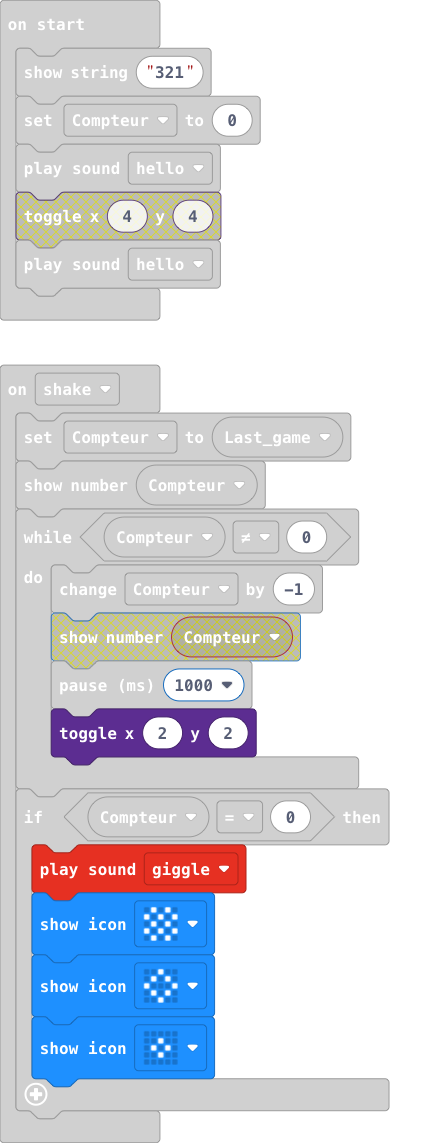
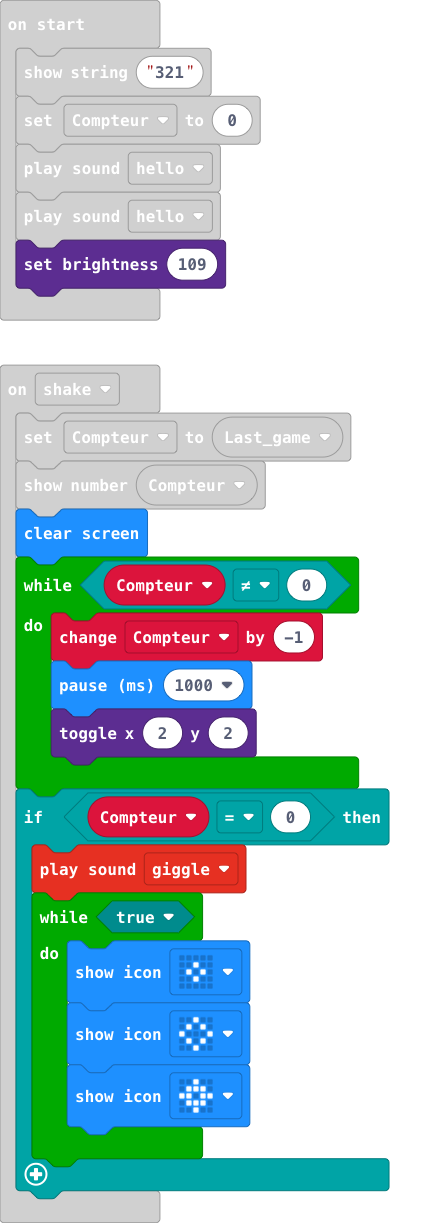
Update main.blocks, main.ts

diff --git a/main.ts b/main.ts
@@ -11,6 +11,7 @@ input.onButtonPressed(Button.B, function () {
 input.onGesture(Gesture.Shake, function () {
     Compteur = Last_game
     basic.showNumber(Compteur)
+    basic.clearScreen()
     while (Compteur != 0) {
         Compteur += -1
         basic.pause(1000)
@@ -18,9 +19,11 @@ input.onGesture(Gesture.Shake, function () {
     }
     if (Compteur == 0) {
         soundExpression.giggle.play()
-        basic.showIcon(IconNames.Chessboard)
-        basic.showIcon(IconNames.Diamond)
-        basic.showIcon(IconNames.SmallDiamond)
+        while (true) {
+            basic.showIcon(IconNames.SmallDiamond)
+            basic.showIcon(IconNames.Diamond)
+            basic.showIcon(IconNames.Target)
+        }
     }
 })
 let Last_game = 0
@@ -29,3 +32,4 @@ basic.showString("321")
 Compteur = 0
 soundExpression.hello.play()
 soundExpression.hello.play()
+led.setBrightness(109)
